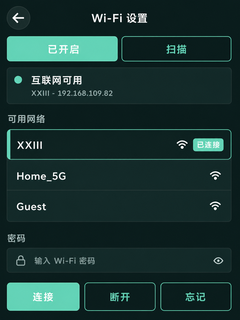
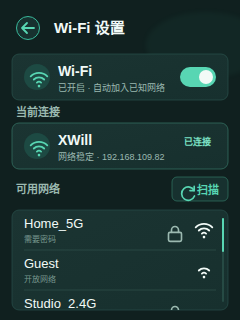
feat（Wi-Fi设置）：接入控制中心入口并添加wifi设置的ui稿件

diff --git a/app/ui/set/wifi/wifi_settings_ui.c b/app/ui/set/wifi/wifi_settings_ui.c
@@ -3,6 +3,7 @@
 #include <stdio.h>
 #include <string.h>
 
+#include "controlcenter_ui.h"
 #include "icon.h"
 #include "home_ui.h"
 #include "lvgl/lvgl.h"
@@ -14,6 +15,11 @@
 #define WIFI_SETTINGS_MAX_VISIBLE_APS 10
 #define WIFI_SETTINGS_BACK_BUTTON_SIZE 36
 
+typedef enum {
+    WIFI_SETTINGS_UI_BACK_TO_SETTINGS,
+    WIFI_SETTINGS_UI_BACK_TO_CONTROL_CENTER,
+} wifi_settings_ui_back_destination_t;
+
 static lv_obj_t *s_status_label;
 static lv_obj_t *s_network_list;
 static lv_obj_t *s_selected_label;
@@ -24,6 +30,7 @@ static wifi_manager_ap_info_t s_scan_results[WIFI_SETTINGS_MAX_VISIBLE_APS];
 static size_t s_scan_result_count;
 static bool s_waiting_for_scan;
 static char s_selected_ssid[WIFI_MANAGER_SSID_MAX_LEN + 1];
+static wifi_settings_ui_back_destination_t s_back_destination = WIFI_SETTINGS_UI_BACK_TO_SETTINGS;
 
 static void wifi_settings_ui_delete_keyboard(void)
 {
@@ -167,7 +174,11 @@ static void wifi_settings_ui_back_event(lv_event_t *event)
         s_refresh_timer = NULL;
     }
     wifi_settings_ui_delete_keyboard();
-    settings_ui_create();
+    if (s_back_destination == WIFI_SETTINGS_UI_BACK_TO_CONTROL_CENTER) {
+        controlcenter_ui_create();
+    } else {
+        settings_ui_create();
+    }
 }
 
 static lv_obj_t *wifi_settings_ui_create_button(lv_obj_t *parent, const char *text,
@@ -202,7 +213,7 @@ static void wifi_settings_ui_create_back_button(lv_obj_t *parent)
     lv_obj_clear_flag(image, LV_OBJ_FLAG_CLICKABLE);
 }
 
-void wifi_settings_ui_create(void)
+static void wifi_settings_ui_create_page(void)
 {
     if (s_refresh_timer != NULL) {
         lv_timer_del(s_refresh_timer);
@@ -273,4 +284,16 @@ void wifi_settings_ui_create(void)
     s_selected_ssid[0] = '\0';
     s_refresh_timer = lv_timer_create(wifi_settings_ui_refresh, WIFI_SETTINGS_REFRESH_PERIOD_MS, NULL);
     wifi_settings_ui_refresh(NULL);
+}
+
+void wifi_settings_ui_create(void)
+{
+    s_back_destination = WIFI_SETTINGS_UI_BACK_TO_SETTINGS;
+    wifi_settings_ui_create_page();
+}
+
+void wifi_settings_ui_create_from_control_center(void)
+{
+    s_back_destination = WIFI_SETTINGS_UI_BACK_TO_CONTROL_CENTER;
+    wifi_settings_ui_create_page();
 }

diff --git a/app/ui/controlcenter/controlcenter_ui.c b/app/ui/controlcenter/controlcenter_ui.c
@@ -6,6 +6,7 @@
 #include "icon.h"
 #include "lvgl/lvgl.h"
 #include "ui_font.h"
+#include "wifi_settings_ui.h"
 
 #define CONTROL_CENTER_HEADER_HEIGHT 61
 #define CONTROL_CENTER_HEADER_BUTTON_SIZE 24
@@ -32,12 +33,19 @@
 typedef struct {
     const char *icon_path;
     const char *title;
+    lv_event_cb_t event_callback;
 } controlcenter_ui_menu_item_t;
 
+static void controlcenter_ui_open_wifi_settings(lv_event_t *event)
+{
+    (void)event;
+    wifi_settings_ui_create_from_control_center();
+}
+
 static const controlcenter_ui_menu_item_t s_menu_items[] = {
-    {UI_ICON_PATH_SETTINGS, "设备设置"},
-    {UI_ICON_PATH_CONTROL_CENTER_WIFI, "网络设置"},
-    {UI_ICON_PATH_INFO, "系统信息"},
+    {UI_ICON_PATH_SETTINGS, "设备设置", NULL},
+    {UI_ICON_PATH_CONTROL_CENTER_WIFI, "网络设置", controlcenter_ui_open_wifi_settings},
+    {UI_ICON_PATH_INFO, "系统信息", NULL},
 };
 
 static void controlcenter_ui_back_home(lv_event_t *event)
@@ -117,6 +125,10 @@ static void controlcenter_ui_create_menu_item(lv_obj_t *parent, lv_coord_t y_pos
     lv_obj_set_style_radius(card, 5, LV_PART_MAIN);
     lv_obj_set_style_pad_all(card, 0, LV_PART_MAIN);
     lv_obj_clear_flag(card, LV_OBJ_FLAG_SCROLLABLE);
+    if (item->event_callback != NULL) {
+        lv_obj_add_flag(card, LV_OBJ_FLAG_CLICKABLE);
+        lv_obj_add_event_cb(card, item->event_callback, LV_EVENT_CLICKED, NULL);
+    }
 
     lv_obj_t *icon_area = lv_obj_create(card);
     /* 容器固定 48×48，内部 PNG 按其原始尺寸（当前为 32×32）居中绘制。 */

diff --git a/app/ui/set/wifi/wifi_settings_ui.h b/app/ui/set/wifi/wifi_settings_ui.h
@@ -2,3 +2,6 @@
 #pragma once
 
 void wifi_settings_ui_create(void);
+
+/** @brief 从控制中心打开 Wi-Fi 设置页。返回按钮将回到控制中心。 */
+void wifi_settings_ui_create_from_control_center(void);

diff --git a/app/ui/controlcenter/controlcenter_ui_README.MD b/app/ui/controlcenter/controlcenter_ui_README.MD
@@ -4,7 +4,7 @@
 
 `controlcenter_ui` 是 APP 的独立控制中心页面，源码为 [controlcenter_ui.c](controlcenter_ui.c)，公开入口为 `controlcenter_ui_create()`。页面运行在固定的 `240 × 320 px` 逻辑显示区域（`LCD_H_RES=240`、`LCD_V_RES=320`），坐标原点为屏幕左上角，`X` 向右增加、`Y` 向下增加。
 
-页面提供三项固定入口视觉区：**设备设置**、**网络设置**、**系统信息**。页面不使用 Flex、Grid 或运行时自适应布局；卡片及其子控件均由固定像素坐标、固定像素尺寸和固定资源路径创建。底部手势区的宽度在源码中使用 `LV_PCT(100)`，在固定的 `240 px` 屏幕上解析为 `240 px`。
+页面提供三项固定入口视觉区：**设备设置**、**网络设置**、**系统信息**。其中“网络设置”卡片可点击，并会直接打开 Wi-Fi 设置页；其余两项当前为视觉入口。页面不使用 Flex、Grid 或运行时自适应布局；卡片及其子控件均由固定像素坐标、固定像素尺寸和固定资源路径创建。底部手势区的宽度在源码中使用 `LV_PCT(100)`，在固定的 `240 px` 屏幕上解析为 `240 px`。
 
 调用 `controlcenter_ui_create()` 时会先执行 `lv_obj_clean(lv_scr_act())` 清空当前活动屏幕，再一次性创建本页所有对象。模块不创建定时器、不保存页面级对象指针，也不刷新动态数据。
 
@@ -42,7 +42,7 @@
 
 ### 2.1 返回首页按钮
 
-该按钮是控制中心页面唯一的点击式返回导航控件。
+该按钮用于返回首页；“网络设置”卡片提供另一条点击式导航入口。
 
 | 属性 | 固定参数 |
 | --- | --- |
@@ -79,7 +79,7 @@
 
 ## 3. 三大固定功能分区
 
-三张卡片均为 `lv_obj`，结构固定为“左侧图标容器 + 中间标题 + 右侧箭头”。`s_menu_items` 配置表中每个 item 只保存 `icon_path` 和 `title`；`controlcenter_ui_create_menu_items()` 依次按 `Y=61+索引×76` 计算位置并调用公共的 `controlcenter_ui_create_menu_item()` 创建完整卡片。卡片不注册 `LV_EVENT_CLICKED`、`LV_EVENT_PRESSED` 或页面跳转回调；当前版本的三项内容为固定视觉入口，点击卡片、左图标、文字或右箭头均不会触发设置页面切换。右箭头仅表达入口语义。
+三张卡片均为 `lv_obj`，结构固定为“左侧图标容器 + 中间标题 + 右侧箭头”。`s_menu_items` 配置表保存 `icon_path`、`title` 和可选点击回调；`controlcenter_ui_create_menu_items()` 依次按 `Y=61+索引×76` 计算位置并调用公共的 `controlcenter_ui_create_menu_item()` 创建完整卡片。仅“网络设置”卡片注册 `LV_EVENT_CLICKED`：点击卡片任意位置均调用 `wifi_settings_ui_create_from_control_center()`。该入口会记录来源，因此 Wi-Fi 页的返回按钮会回到控制中心。其他两张卡片当前不注册页面跳转回调，右箭头仅表达入口语义。
 
 ### 3.1 卡片通用结构
 
@@ -119,11 +119,11 @@
 
 ### 3.3 网络设置模块
 
-网络设置卡片为固定三段式结构：左图标、居中文字标题、右箭头。该模块用于承载网络设置入口视觉区；当前未注册卡片点击回调，因此不执行 Wi-Fi 设置页面跳转。
+网络设置卡片为固定三段式结构：左图标、居中文字标题、右箭头。卡片注册 `LV_EVENT_CLICKED`，直接调用 `wifi_settings_ui_create_from_control_center()` 打开 Wi-Fi 设置页；Wi-Fi 页返回时会恢复控制中心。
 
 | 组件 | 控件类型 | 左上角坐标 | 尺寸 | 资源 / 固定内容 | 字体、颜色与对齐 |
 | --- | --- | ---: | ---: | --- | --- |
-| 模块卡片背景 | `lv_obj` | `(13, 137)` | `214 × 62 px` | 无 | 水平渐变 `#19302E` → `#1B3733`；圆角 `5 px`；无边框、无内边距、不可滚动 |
+| 模块卡片背景 | `lv_obj` | `(13, 137)` | `214 × 62 px` | 无 | 水平渐变 `#19302E` → `#1B3733`；圆角 `5 px`；无边框、无内边距、不可滚动、可点击 |
 | 左侧图标容器 | `lv_obj` | `(21, 144)` | `48 × 48 px` | 无 | 透明、无边框、无内边距、可溢出显示 |
 | 左侧图标组件 | `lv_img` | `(29, 152)` | `32 × 32 px` | `wifi-32.png`；`app/ui/icon/png/wifi-32.png`；`R:/littlefs/png/wifi-32.png` | 原始 PNG `32 × 32 px`；容器正中 1:1 显示；重着色 `#58D6B3`；不缩放、不可点击 |
 | 中间文字组件 | `lv_label` | `(85, 159)` | 内容尺寸 `64 × 18 px` | `网络设置` | `ui_font_get_16()`；`16 px`；`#F2FAF7`；单行；`LV_ALIGN_LEFT_MID`，垂直居中；未显式设置控件尺寸 |
@@ -170,6 +170,6 @@
 
 1. 修改显示分辨率时，必须同步重新计算本文档中的所有绝对坐标；本模块不具备自动重排能力。
 2. 修改卡片高度、图标尺寸或标题字体时，必须同步调整 `CONTROL_CENTER_CARD_ICON_SIZE`、`CONTROL_CENTER_CARD_ICON_X`、`CONTROL_CENTER_CARD_LABEL_X` 及三张卡片的文本和箭头坐标。
-3. 三张卡片要接入实际页面时，应在对应卡片对象上注册独立 `LV_EVENT_CLICKED` 回调；不能把回调挂在不可点击的 `lv_img` 图标对象上。
+3. “网络设置”已在卡片对象上注册独立 `LV_EVENT_CLICKED` 回调；其他卡片接入页面时也应沿用此方式，不能把回调挂在不可点击的 `lv_img` 图标对象上。
 4. 新增或替换 PNG 后必须执行 `./build.sh build flash` 重新生成 `build/littlefs_icons.bin`；仅烧录应用分区不会更新 LittleFS 图标资源。
 5. 本模块依赖 PNG 解码和 `R:` 文件系统驱动；资源加载入口为 `ui_icon_set_src()`，资源不可读取时该函数会记录日志并清空图像源。

diff --git a/UI稿件/README.md b/UI稿件/README.md
@@ -5,7 +5,8 @@
 - `01-首页.png`：时间、环境数据、Wi-Fi 和性能状态。
 - `02-控制中心.png`：控制中心入口。
 - `03-设置.png`：设置列表。
-- `04-Wi-Fi设置.png`：Wi-Fi 开关、扫描、网络选择和连接操作。
+- `04-Wi-Fi设置.png`：重设计后的 Wi-Fi 开关、当前连接与可用网络列表；C01、C02 均为 `46 px` 高，扫描为独立操作区，热点列表为纵向可滑动视窗。
+- `04-Wi-Fi设置-尺寸标注.png`：面向开发的全量坐标、尺寸、图标、字号与交互入口标注图。
 
 ## 墨绿薄荷色板
 
@@ -18,4 +19,6 @@
 - 次级文字：`#9BB9B0`
 - 警告/提醒：`#FFC857`
 
-`icons/` 中的图标均为 24×24 SVG，使用 `currentColor` 着色；在设计稿中建议使用主色 `#58D6B3`，次级图标可用 `#9BB9B0`。导入 LVGL 前请通过项目所用的图片转换工具转换为目标色深和格式。
+`icons/` 中的图标均为 24×24 SVG，使用 `currentColor` 着色；在设计稿中建议使用主色 `#58D6B3`，次级图标可用 `#9BB9B0`。`back`、`check`、`lock`、`refresh` 及三个 `wifi-signal-*` 图标均提供同名透明 PNG，可直接复制到项目资源目录后按现有 `img_recolor` 规则使用。
+
+Wi-Fi 页面中的交互遵循手机设置逻辑：总开关启停 Wi-Fi；点击“扫描”刷新可用网络；在可用网络列表中纵向滑动浏览全部热点；点击已连接网络进入网络详情（断开/忽略）；点击受保护网络打开密码输入，点击开放网络直接发起连接。
